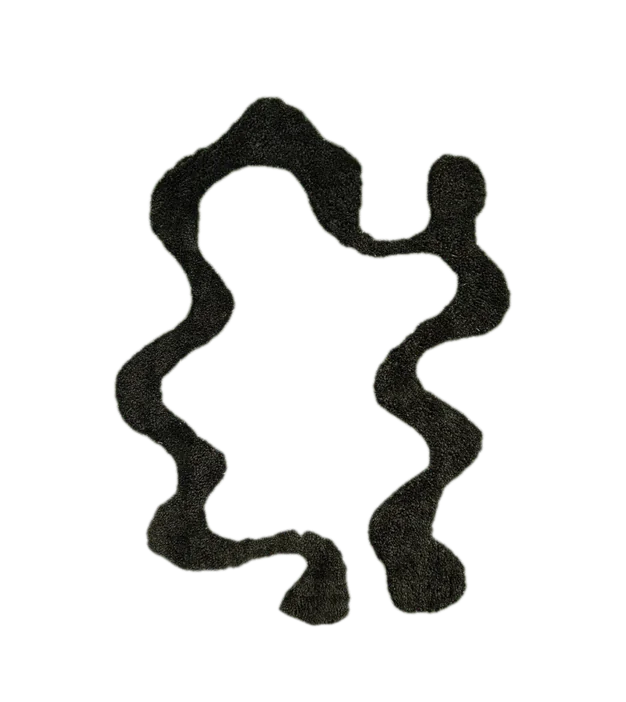
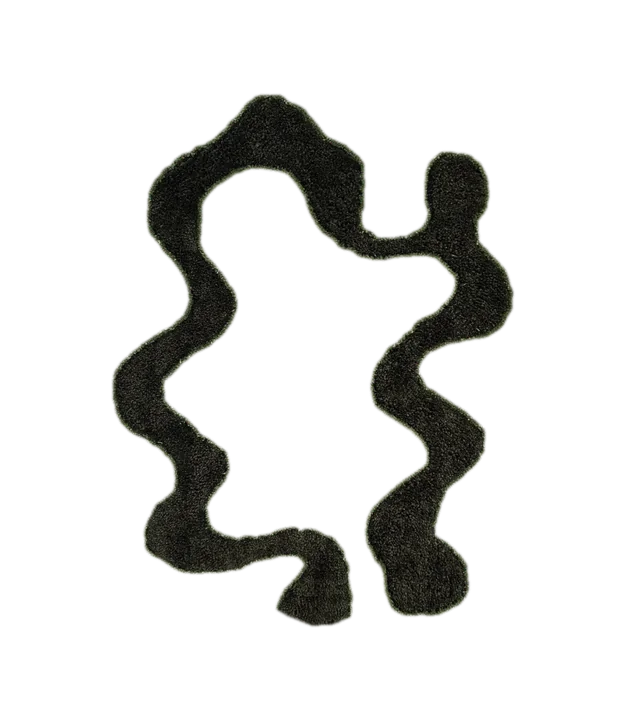
Rug card: tuft one yarn section at a time (light green, dark green, sand)

diff --git a/index.html b/index.html
@@ -206,8 +206,8 @@
   @keyframes rug-cloth { 0% { opacity: 0; } 6%, 88% { opacity: 1; } 100% { opacity: 0; } }
   @keyframes rug-pen {
     0%, 6% { opacity: 1; stroke-dashoffset: 1; }
-    26%, 50% { opacity: 1; stroke-dashoffset: 0; }
-    56%, 100% { opacity: 0; stroke-dashoffset: 0; }
+    26%, 86% { opacity: 1; stroke-dashoffset: 0; }
+    92%, 100% { opacity: 0; stroke-dashoffset: 0; }
   }
   @keyframes rug-base {
     0%, 27% { stroke-dashoffset: 1; stroke-width: 30; }
@@ -530,9 +530,9 @@
             <g transform="translate(-81 -50)">
             <!-- 2. the design traced in marker -->
             <g class="pens"><use href="#rug-sil" class="pen"/><use href="#rug-band" class="pen"/><use href="#rug-sand" class="pen"/></g>
-            <!-- 3. the rug itself: real photo pixels, revealed one yarn color at a time -->
+            <!-- 3. the rug itself: real photo pixels, one yarn color at a time (light green, dark green, sand) -->
             <g class="rug">
-              <image href="projects/rug/art-green.webp" x="0" y="0" width="803" height="900" mask="url(#rug-m-base)"/>
+              <image href="projects/rug/art-lightgreen.webp" x="0" y="0" width="803" height="900" mask="url(#rug-m-base)"/>
               <image href="projects/rug/art-band.webp" x="0" y="0" width="803" height="900" mask="url(#rug-m-band)"/>
               <image href="projects/rug/art-sand.webp" x="0" y="0" width="803" height="900" mask="url(#rug-m-sand)"/>
             </g>
